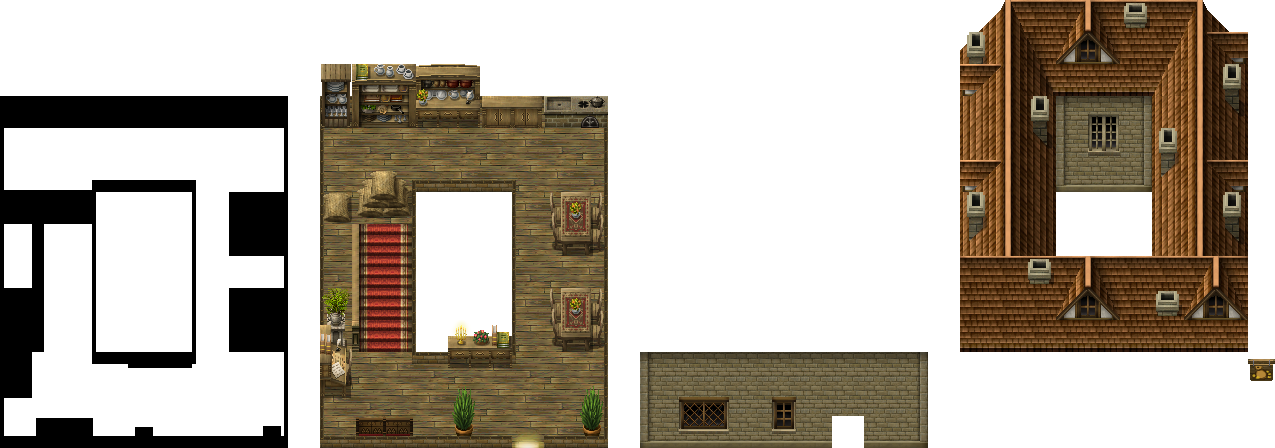
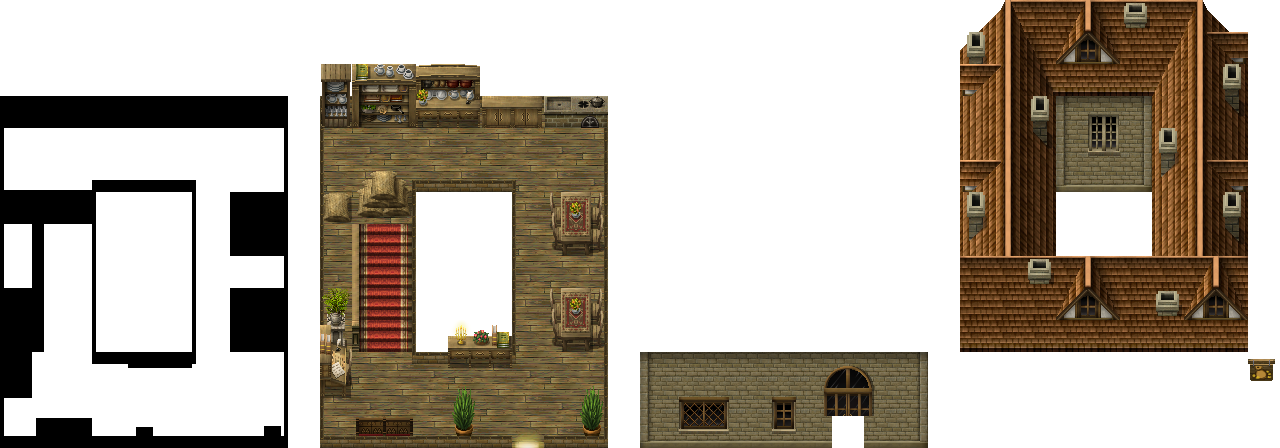
update houses

diff --git a/src/main.c b/src/main.c
@@ -5,7 +5,6 @@
 ** main
 */
 
-/*
 #include <SFML/Graphics.h>
 #include <SFML/Audio.h>
 #include <stdlib.h>
@@ -16,10 +15,10 @@ int main(void)
 {
     rpg_t rpg;
     obj_t **obj = malloc(sizeof(obj_t *) * 10);
-    house_t **house = malloc(sizeof(house_t *) * 2);
+    house_t **house = malloc(sizeof(house_t *) * 5);
     sfVector2u windowSize;
 
-    rpg.wind.wind = create_window("test window", 10);
+    rpg.wind.wind = create_window("Nuck Fathan", 10);
     windowSize = sfRenderWindow_getSize(rpg.wind.wind);
     rpg.wind.view = sfView_createFromRect((sfFloatRect){0, 0, windowSize.x, windowSize.y});
 
@@ -29,8 +28,11 @@ int main(void)
     obj[3] = create_object("assets/stupid_nathan.png", (sfVector2f){9900, 1280}, (sfIntRect){0, 0, 32, 64}, sfFalse);
     obj[4] = create_object("assets/yes.png", V2F(0, 0), (sfIntRect){0, 0, 11776, 2560}, sfFalse);
     obj[5] = NULL;
-    //house[0] = create_house(1, (sfVector2f){10100, 1050});
-    house[0] = NULL;
+    house[0] = create_house(2, (sfVector2f){10400, 768});
+    house[1] = create_house(3, (sfVector2f){10720, 864});
+    house[2] = create_house(0, (sfVector2f){10944, 896});
+    house[3] = create_house(1, (sfVector2f){10400, 1280});
+    house[4] = NULL;
 
     sfSprite_setOrigin(obj[1]->sprite, (sfVector2f){16, 60});
     sfSprite_setOrigin(obj[2]->sprite, (sfVector2f){16, 60});
@@ -48,9 +50,9 @@ int main(void)
     free_house(house);
     free_obj(obj);
     return (0);
-}*/
+}
 
-#include "inventory.h"
+/*#include "inventory.h"
 #include "my_ini.h"
 
 sfRenderWindow *init_window()
@@ -82,4 +84,4 @@ int main()
         inventory_compute(inv);
         sfRenderWindow_display(inv->window);
     }
-}
+}*/

diff --git a/src/globals.c b/src/globals.c
@@ -36,24 +36,34 @@ const char *save_path[3] = {
     "saves/save3.txt"
 };
 
-const char *house_path[2] = {
+const char *house_path[4] = {
     "assets/maison 1.png",
-    "assets/maison 2.png"
+    "assets/maison 2.png",
+    "assets/auberge.png",
+    "assets/forge.png"
 };
 
-const sfIntRect house_rects[2] = {
+const sfIntRect house_rects[4] = {
     {0, 0, 192, 320},
-    {0, 0, 256, 256}
+    {0, 0, 256, 256},
+    {0, 0, 320, 448},
+    {0, 0, 192, 352}
 };
 
-const char *door_path[2] = {
-    "assets/door1.png",
-    "assets/door1.png"
+const sfVector2f door_pos[4] = {
+    {0, 259},
+    {0, 195},
+    {160, 352},
+    {96, 161}
 };
 
-const sfIntRect door_rects = {0, 0, 96, 96};
+const sfIntRect door_rects[4] = {
+    {0, 64, 96, 64},
+    {0, 64, 96, 64},
+    {0, 352, 96, 96},
+    {0, 224, 96, 64},
+};
 
-const int door_pos[2] = {256, 192};
 void (* const menu[6])(rpg_t *, obj_t **, house_t **) = {
     menu_new_game,
     menu_load_game,

diff --git a/src/create_house.c b/src/create_house.c
@@ -40,9 +40,10 @@ void door_creation(house_t *house, char *path, sfVector2f pos, sfIntRect rect)
 house_t *create_house(int type, sfVector2f pos)
 {
     house_t *house = malloc(sizeof(house_t));
-    sfVector2f doorPos = {pos.x + 0, pos.y + door_pos[type]};
+    sfVector2f doorPos =
+{pos.x + door_pos[type].x, pos.y + door_pos[type].y};
 
     house_creation(house, (char *)house_path[type], pos, house_rects[type]);
-    door_creation(house, (char *)door_path[type], doorPos, door_rects);
+    door_creation(house, "assets/doors.png", doorPos, door_rects[type]);
     return (house);
 }

diff --git a/src/game_display.c b/src/game_display.c
@@ -12,8 +12,9 @@ static void display(rpg_t *rpg, obj_t **obj, house_t **house)
     sfRenderWindow_setView(WIND.wind, WIND.view);
     //print_map(MAP.sprite, obj, rpg->wind);
     //sfRenderWindow_drawSprite(WIND.wind, obj[HERO_HB]->sprite, NULL);
+    sfRenderWindow_drawSprite(WIND.wind, obj[4]->sprite, NULL);
     house_display(rpg, house);
-    for (int i = 4; i > 0; i--)
+    for (int i = 3; i > 0; i--)
         sfRenderWindow_drawSprite(WIND.wind, obj[i]->sprite, NULL);
     //print_map2(MAP.sprite, obj, rpg->wind);
     for (int i = 0; house[i] != NULL; i++)

diff --git a/include/globals.h b/include/globals.h
@@ -9,11 +9,10 @@
 #define GLOBALS_H_
 
 extern const char *save_path[3];
-extern const char *house_path[2];
-extern const sfIntRect house_rects[2];
-extern const char *door_path[2];
-extern const sfIntRect door_rects;
-extern const int door_pos[2];
+extern const char *house_path[4];
+extern const sfIntRect house_rects[4];
+extern const sfIntRect door_rects[4];
+extern const sfVector2f door_pos[4];
 extern const char *menu_path[2];
 extern const char *menu_str[6];
 extern const sfVector2f menu_pos[6];
